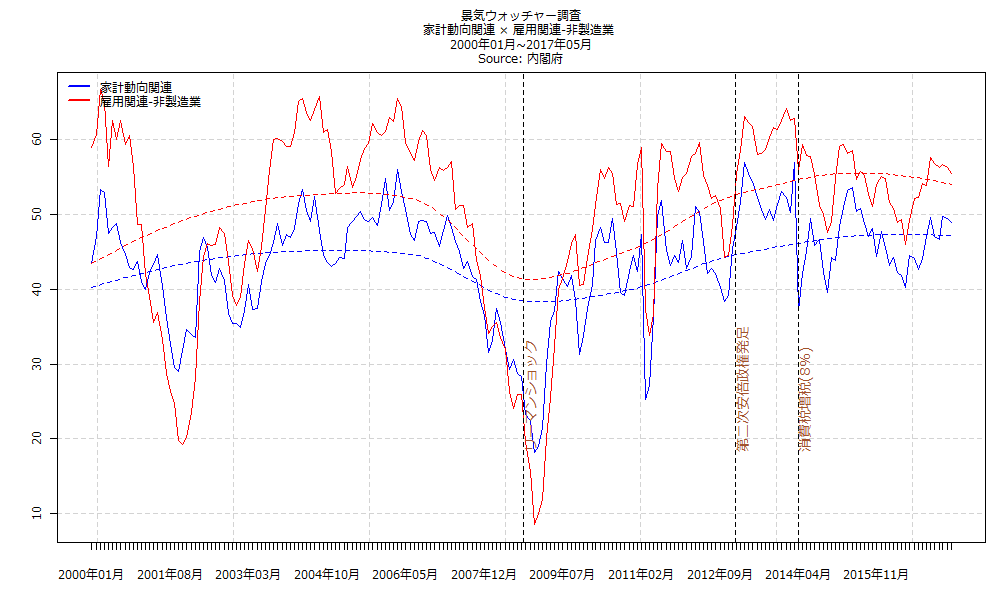
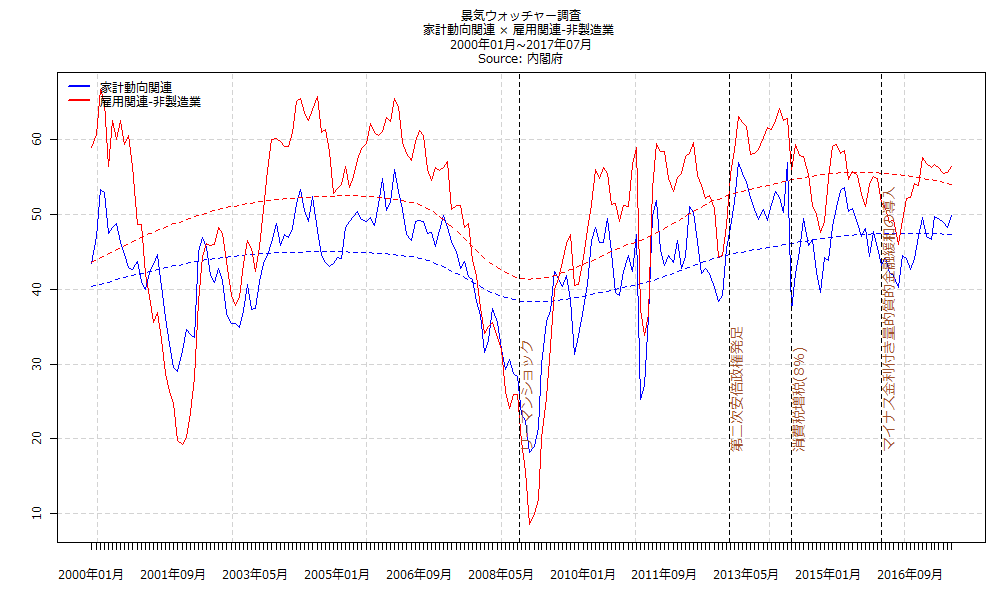
insertheader,selfcontained追記、前月差追記
insertheader,selfcontained追記、前月差追記

diff --git a/md/20170808-olive.md b/md/20170808-olive.md
@@ -1,15 +1,12 @@
 
 ---
-tags : [貸出, 預金, 銀行, 都銀, 地銀, 日本銀行]
-title : 貸出･預金動向 速報:2017-07:貸出・預金動向(月次):総貸出平残(銀行計)(億円):4,492,177 , 貸出・預金動向(月次):総貸出平残(銀行計)前年比(%):3.4
+tags : [景気ウォッチャー調査]
+title : 景気ウォッチャー調査(原数値):Ⅰ.全国の分野・業種別DIの推移:1.景気の現状判断(方向性):2017年07月:家計動向関連:49.8 , 雇用関連-非製造業:56.4
 published : true
 ---
 
 
-<a href="http://knowledgevault.saecanet.com/charts/chartImages/PrincipalFiguresOfFinancialInstitutionsInJapan1.png"><img border="0" src="http://knowledgevault.saecanet.com/charts/chartImages/PrincipalFiguresOfFinancialInstitutionsInJapan1.png" width="100%" /></a>
-
-
-<a href="http://knowledgevault.saecanet.com/charts/chartImages/PrincipalFiguresOfFinancialInstitutionsInJapan2.png"><img border="0" src="http://knowledgevault.saecanet.com/charts/chartImages/PrincipalFiguresOfFinancialInstitutionsInJapan2.png" width="100%" /></a>
+<a href="http://knowledgevault.saecanet.com/charts/chartImages/EconomyWatchersSurvey1.png"><img border="0" src="http://knowledgevault.saecanet.com/charts/chartImages/EconomyWatchersSurvey1.png" width="100%" /></a>
 
 
 ***
@@ -18,7 +15,7 @@ published : true
 #### 内閣総理大臣毎の基本統計量
 
 
-- 貸出・預金動向(月次):総貸出平残(銀行計)前年比(%)
+- 家計動向関連
 
 
 <table id = 'amcc' width = '100%'>
@@ -36,143 +33,93 @@ published : true
  </thead>
 <tbody>
   <tr>
-   <td style="text-align:left;"> 細川護煕 </td>
-   <td style="text-align:right;"> 0.2 </td>
-   <td style="text-align:right;"> 0.4 </td>
-   <td style="text-align:right;"> 0.5 </td>
-   <td style="text-align:right;"> 0.52 </td>
-   <td style="text-align:right;"> 0.57 </td>
-   <td style="text-align:right;"> 0.9 </td>
-   <td style="text-align:left;"> 1993年09月~1994年04月 </td>
-  </tr>
-  <tr>
-   <td style="text-align:left;"> 羽田孜 </td>
-   <td style="text-align:right;"> -0.2 </td>
-   <td style="text-align:right;"> -0.15 </td>
-   <td style="text-align:right;"> -0.1 </td>
-   <td style="text-align:right;"> -0.1 </td>
-   <td style="text-align:right;"> -0.05 </td>
-   <td style="text-align:right;"> 0 </td>
-   <td style="text-align:left;"> 1994年05月~1994年06月 </td>
-  </tr>
-  <tr>
-   <td style="text-align:left;"> 村山富市 </td>
-   <td style="text-align:right;"> -0.3 </td>
-   <td style="text-align:right;"> -0.2 </td>
-   <td style="text-align:right;"> 0 </td>
-   <td style="text-align:right;"> 0.55 </td>
-   <td style="text-align:right;"> 1.4 </td>
-   <td style="text-align:right;"> 2.2 </td>
-   <td style="text-align:left;"> 1994年07月~1996年01月 </td>
-  </tr>
-  <tr>
-   <td style="text-align:left;"> 橋本龍太郎(1-2) </td>
-   <td style="text-align:right;"> -2.5 </td>
-   <td style="text-align:right;"> -0.5 </td>
-   <td style="text-align:right;"> -0.1 </td>
-   <td style="text-align:right;"> -0.14 </td>
-   <td style="text-align:right;"> 0.15 </td>
-   <td style="text-align:right;"> 2.2 </td>
-   <td style="text-align:left;"> 1996年02月~1998年07月 </td>
-  </tr>
-  <tr>
-   <td style="text-align:left;"> 小渕恵三 </td>
-   <td style="text-align:right;"> -6.5 </td>
-   <td style="text-align:right;"> -5.9 </td>
-   <td style="text-align:right;"> -5.4 </td>
-   <td style="text-align:right;"> -4.99 </td>
-   <td style="text-align:right;"> -4.2 </td>
-   <td style="text-align:right;"> -2.3 </td>
-   <td style="text-align:left;"> 1998年08月~2000年04月 </td>
-  </tr>
-  <tr>
    <td style="text-align:left;"> 森喜朗(1-2) </td>
-   <td style="text-align:right;"> -4.7 </td>
-   <td style="text-align:right;"> -4.38 </td>
-   <td style="text-align:right;"> -4 </td>
-   <td style="text-align:right;"> -4.04 </td>
-   <td style="text-align:right;"> -3.68 </td>
-   <td style="text-align:right;"> -3.5 </td>
+   <td style="text-align:right;"> 35.6 </td>
+   <td style="text-align:right;"> 46.95 </td>
+   <td style="text-align:right;"> 56.4 </td>
+   <td style="text-align:right;"> 52.62 </td>
+   <td style="text-align:right;"> 60.12 </td>
+   <td style="text-align:right;"> 62.5 </td>
    <td style="text-align:left;"> 2000年05月~2001年04月 </td>
   </tr>
   <tr>
    <td style="text-align:left;"> 小泉純一郎(1-3) </td>
-   <td style="text-align:right;"> -5.3 </td>
-   <td style="text-align:right;"> -4.7 </td>
-   <td style="text-align:right;"> -4.2 </td>
-   <td style="text-align:right;"> -3.27 </td>
-   <td style="text-align:right;"> -2.7 </td>
-   <td style="text-align:right;"> 2.1 </td>
+   <td style="text-align:right;"> 19.3 </td>
+   <td style="text-align:right;"> 43.7 </td>
+   <td style="text-align:right;"> 55.8 </td>
+   <td style="text-align:right;"> 50.62 </td>
+   <td style="text-align:right;"> 60.9 </td>
+   <td style="text-align:right;"> 65.7 </td>
    <td style="text-align:left;"> 2001年05月~2006年09月 </td>
   </tr>
   <tr>
    <td style="text-align:left;"> 安倍晋三(1) </td>
-   <td style="text-align:right;"> 0.3 </td>
-   <td style="text-align:right;"> 0.7 </td>
-   <td style="text-align:right;"> 1 </td>
-   <td style="text-align:right;"> 1.01 </td>
-   <td style="text-align:right;"> 1.15 </td>
-   <td style="text-align:right;"> 1.8 </td>
+   <td style="text-align:right;"> 48.3 </td>
+   <td style="text-align:right;"> 51.08 </td>
+   <td style="text-align:right;"> 55.2 </td>
+   <td style="text-align:right;"> 53.91 </td>
+   <td style="text-align:right;"> 56.3 </td>
+   <td style="text-align:right;"> 60.6 </td>
    <td style="text-align:left;"> 2006年10月~2007年09月 </td>
   </tr>
   <tr>
    <td style="text-align:left;"> 福田康夫 </td>
-   <td style="text-align:right;"> 0.1 </td>
-   <td style="text-align:right;"> 0.68 </td>
-   <td style="text-align:right;"> 1.25 </td>
-   <td style="text-align:right;"> 1.23 </td>
-   <td style="text-align:right;"> 1.85 </td>
-   <td style="text-align:right;"> 2 </td>
+   <td style="text-align:right;"> 24.1 </td>
+   <td style="text-align:right;"> 26.3 </td>
+   <td style="text-align:right;"> 33.85 </td>
+   <td style="text-align:right;"> 32.98 </td>
+   <td style="text-align:right;"> 36 </td>
+   <td style="text-align:right;"> 43.8 </td>
    <td style="text-align:left;"> 2007年10月~2008年09月 </td>
   </tr>
   <tr>
    <td style="text-align:left;"> 麻生太郎 </td>
-   <td style="text-align:right;"> 1.6 </td>
-   <td style="text-align:right;"> 2.27 </td>
-   <td style="text-align:right;"> 3.4 </td>
-   <td style="text-align:right;"> 3.03 </td>
-   <td style="text-align:right;"> 3.65 </td>
-   <td style="text-align:right;"> 4.1 </td>
+   <td style="text-align:right;"> 8.5 </td>
+   <td style="text-align:right;"> 14.75 </td>
+   <td style="text-align:right;"> 22.85 </td>
+   <td style="text-align:right;"> 26.25 </td>
+   <td style="text-align:right;"> 40.3 </td>
+   <td style="text-align:right;"> 46.1 </td>
    <td style="text-align:left;"> 2008年10月~2009年09月 </td>
   </tr>
   <tr>
    <td style="text-align:left;"> 鳩山由紀夫 </td>
-   <td style="text-align:right;"> -2.1 </td>
-   <td style="text-align:right;"> -2 </td>
-   <td style="text-align:right;"> -1.7 </td>
-   <td style="text-align:right;"> -1.22 </td>
-   <td style="text-align:right;"> -1.2 </td>
-   <td style="text-align:right;"> 1.5 </td>
+   <td style="text-align:right;"> 40.5 </td>
+   <td style="text-align:right;"> 44.3 </td>
+   <td style="text-align:right;"> 48 </td>
+   <td style="text-align:right;"> 48.8 </td>
+   <td style="text-align:right;"> 54.8 </td>
+   <td style="text-align:right;"> 56.3 </td>
    <td style="text-align:left;"> 2009年10月~2010年06月 </td>
   </tr>
   <tr>
    <td style="text-align:left;"> 菅直人 </td>
-   <td style="text-align:right;"> -2.1 </td>
-   <td style="text-align:right;"> -2 </td>
-   <td style="text-align:right;"> -1.8 </td>
-   <td style="text-align:right;"> -1.43 </td>
-   <td style="text-align:right;"> -0.7 </td>
-   <td style="text-align:right;"> -0.3 </td>
+   <td style="text-align:right;"> 33.8 </td>
+   <td style="text-align:right;"> 50.1 </td>
+   <td style="text-align:right;"> 51.4 </td>
+   <td style="text-align:right;"> 50.84 </td>
+   <td style="text-align:right;"> 57.55 </td>
+   <td style="text-align:right;"> 59.5 </td>
    <td style="text-align:left;"> 2010年07月~2011年09月 </td>
   </tr>
   <tr>
    <td style="text-align:left;"> 野田佳彦 </td>
-   <td style="text-align:right;"> 0.1 </td>
-   <td style="text-align:right;"> 0.45 </td>
-   <td style="text-align:right;"> 0.8 </td>
-   <td style="text-align:right;"> 0.77 </td>
-   <td style="text-align:right;"> 1.05 </td>
-   <td style="text-align:right;"> 1.4 </td>
+   <td style="text-align:right;"> 44.3 </td>
+   <td style="text-align:right;"> 51.45 </td>
+   <td style="text-align:right;"> 53.9 </td>
+   <td style="text-align:right;"> 53.03 </td>
+   <td style="text-align:right;"> 55.35 </td>
+   <td style="text-align:right;"> 59.6 </td>
    <td style="text-align:left;"> 2011年10月~2012年12月 </td>
   </tr>
   <tr>
    <td style="text-align:left;"> 安倍晋三(2,3) </td>
-   <td style="text-align:right;"> 1.6 </td>
-   <td style="text-align:right;"> 2.2 </td>
-   <td style="text-align:right;"> 2.4 </td>
-   <td style="text-align:right;"> 2.42 </td>
-   <td style="text-align:right;"> 2.6 </td>
-   <td style="text-align:right;"> 3.4 </td>
+   <td style="text-align:right;"> 46 </td>
+   <td style="text-align:right;"> 53.3 </td>
+   <td style="text-align:right;"> 55.9 </td>
+   <td style="text-align:right;"> 55.95 </td>
+   <td style="text-align:right;"> 58.65 </td>
+   <td style="text-align:right;"> 64.2 </td>
    <td style="text-align:left;"> 2013年01月~2017年07月 </td>
   </tr>
 </tbody>
@@ -181,7 +128,7 @@ published : true
 ## データテーブル･チャート
 
 
-Link : [データテーブル･チャート](http://knowledgevault.saecanet.com/charts/am-consulting.co.jp-PrincipalFiguresOfFinancialInstitutionsInJapan.html)
+Link : [データテーブル･チャート](http://knowledgevault.saecanet.com/charts/am-consulting.co.jp-EconomyWatchersSurvey.html)
 
 
-<iframe src="http://knowledgevault.saecanet.com/charts/am-consulting.co.jp-PrincipalFiguresOfFinancialInstitutionsInJapan.html" width="100%" height="800px"></iframe>
+<iframe src="http://knowledgevault.saecanet.com/charts/am-consulting.co.jp-EconomyWatchersSurvey.html" width="100%" height="800px"></iframe>
